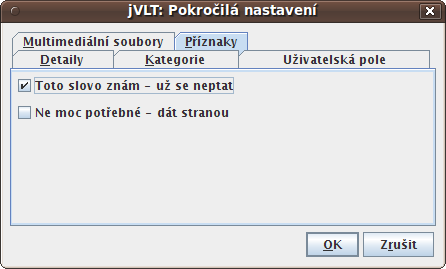
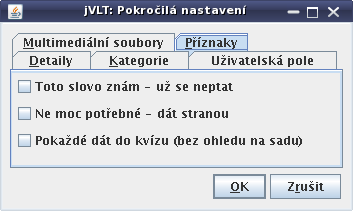
Czech documentation updated
git-svn-id: https://svn.code.sf.net/p/jvlt/code/trunk@584 2e8f9017-362f-4c5f-8fba-3cd18fd43268

diff --git a/jvlt-main/doc/cs_CZ/doc-quizzes.html b/jvlt-main/doc/cs_CZ/doc-quizzes.html
@@ -189,6 +189,14 @@ Je-li políčko u této možnosti zaškrtnuto, aktualizují se po kvízu
 sady slov i v případě, že se během kvízu ignoruje doba vypršení.
 </li>
 
+<li>
+<b>Při zobrazení odpovědi přehraj zvukový soubor:</b>
+V tom okamžiku kvízu, kdy se zobrazí odpověď, se v případě, že je
+k dotyčnému slovu přiřazen zvukový soubor, tento soubor přehraje.
+V případě, že je u slova uvedeno více zvukových souborů, přehraje
+se pouze první z nich.
+</li>
+
 </ul>
 
 
@@ -235,8 +243,11 @@ V dalším oddíle je popsáno, co se potom stane.
 Pokud jste se rozhodli skončit kvíz, jVLT se zeptá, zda si chcete zopakovat
 slova, která jste nevěděli. Následně zobrazí dva seznamy, jeden se slovy,
 která jste věděli, a druhý se slovy, která jste nevěděli. Jestliže jste slova,
-která jste věděli, omylem označili za neuhodnutá a naopak, můžete své chyby
+která jste věděli, omylem označili za neuhodnutá a naopak, můžete své omyly
 teď napravit tím, že příslušná slova vyberete a stisknete tlačítko se šipkou.
+Slovům, na něž jste byli tázáni v kvízu, teď také můžete přiřadit
+<a href="doc-vocabulary.html#advanced_settings_flags"> příznaky</a>. To
+provedete zaškrtáváním políček v daných dvou seznamech.
 Nakonec se můžete rozhodnout, zda se výsledky tohoto kvízu mají uložit, aby
 byly k dispozici pro budoucí kvízy.<br>
 <br>

diff --git a/jvlt-main/doc/cs_CZ/doc-vocabulary.html b/jvlt-main/doc/cs_CZ/doc-vocabulary.html
@@ -238,6 +238,8 @@ V současné době jde o následující příznaky.
 
 <li>Ne moc potřebné &ndash; dát stranou</li>
 
+<li>Pokaždé dát do kvízu (bez ohledu na sadu)</li>
+
 </ul>
 
 <p>
